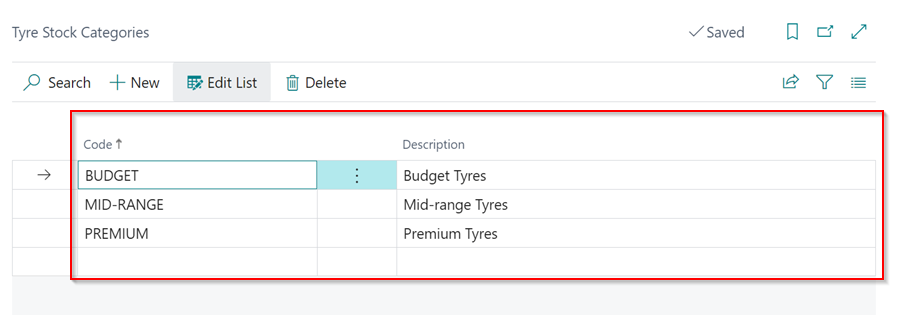
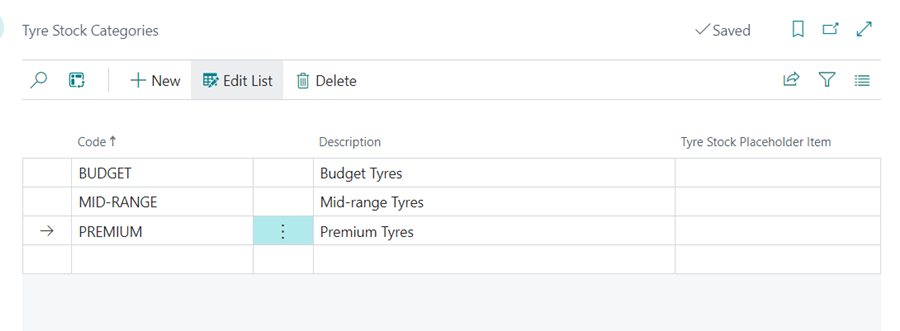
tyre stocks

diff --git a/docs/garagehive-tyre-stock-groups.md b/docs/garagehive-tyre-stock-groups.md
@@ -4,13 +4,14 @@ title: Tyre Stock Groups in Garage Hive
 ---
 
 # Tyre Stock Groups
-**Tyre Stock Groups** is a feature in Garage Hive where you can conveniently create and manage various tyre groups available in the market, allowing you to effectively organize your tyre inventory based on these groups.
+**Tyre Stock Groups** is a feature in Garage Hive where you can easily create and manage various tyre groups available in the market, allowing you to effectively organise your tyre inventory based on these groups.
 
 
 ## In this article
 1. [Creating Tyre Stock Groups](#creating-tyre-stock-groups)
 2. [Creating Tyre Stock Categories](#creating-tyre-stock-categories)
 3. [Add Location Specific Setup to Tyre Stock Groups](#add-location-specific-setup-to-tyre-stock-groups)
+4. [Enable Tyre Stock Group Ordering in Requisition Worksheet](#enable-tyre-stock-group-ordering-in-requisition-worksheet)
 
 ### Creating Tyre Stock Groups
 To create **Tyre Stock Groups**:
@@ -37,7 +38,7 @@ To create **Tyre Stock Groups**:
 [Go back to top](#top)
 
 ### Creating Tyre Stock Categories
-**Tyre Stock Categories** help in categorising the **Tyre Stock Groups** based on the criteria you use. Here is how to create the categories:
+**Tyre Stock Categories** help in categorising the **Tyre Stock Groups** based on the criteria you choose. Here is how to create the categories:
 1. In the top right corner, choose the ![](media/search_icon.png) icon, enter **Tyre Stock Categories**, and select the related link.
 
    ![](media/garagehive-tyre-stock-categories1.png)
@@ -46,7 +47,7 @@ To create **Tyre Stock Groups**:
 
    ![](media/garagehive-tyre-stock-categories2.png)
 
-3. Open the **Tyre Stock Groups** page, go to the **Stock Category** field, and select the tyres to which you want to add a category. Add the categories there.
+3. Open the **Tyre Stock Groups** page, go to the **Stock Category** field, select the tyres to which you want to add a category and add the categories there.
 
    ![](media/garagehive-tyre-stock-categories3.png)
 
@@ -71,5 +72,38 @@ Location Specific setup helps in the creation of the Tyre Stock Group for a spec
 6. Select **New** from the menu bar, and choose the location you want to have in the group.
 
    ![](media/garagehive-tyre-group-location-specific4.png)
+
+[Go back to top](#top)
+
+### Enable Tyre Stock Group Ordering in Requisition Worksheet
+If you want the requisition worksheet to work with Tyre Stock Groups instead of individual tyre items when selecting items to order, you need to create tyre placeholder items and categorise all the tyre stock groups. Here’s how to do it:
+1. In the top right corner, choose the ![](media/search_icon.png) icon, enter **Tyre Stock Groups**, and select the related link.
+
+   ![](media/garagehive-tyre-stock-placeholder1.png)
+
+2. In the **Tyre Stock Placeholder Item** column, create new placeholder items for each category you have.
+
+   ![](media/garagehive-tyre-stock-placeholder2.png)
+
+3. Make sure the item card is set up as a **Tyre** item template and marked as a **Placeholder Item**.
+
+   ![](media/garagehive-tyre-stock-placeholder3.png)
+
+4. After adding a **Tyre Stock Placeholder Item** for each category, go to the tyre item card and add the **Reordering Policy** as **Maximum Qty.** and the **Reorder Point** as point when to reorder.
+
+   ![](media/garagehive-tyre-stock-placeholder4.png)
+
+5.  In the **Tyre Fields** FastTab of the item card, ensure that the **Stock Category** is included.
+
+   ![](media/garagehive-tyre-stock-placeholder5.png)
+
+6. Next, click on the **Items to Order** tile.
+
+   ![](media/garagehive-tyre-stock-placeholder6.png)
+
+7. Click on **Calculate Plan** in the **Requisition Worksheet Express**, and it will give you the number of tyre category to order.
+
+   ![](media/garagehive-tyre-stock-placeholder7.png)
+
 
 [Go back to top](#top)

diff --git a/docs/garagehive-whats-new.md b/docs/garagehive-whats-new.md
@@ -12,7 +12,7 @@ The following is a list of all new Garage Hive features and updates. For more de
 
    ![](media/prevent-posting-if-unit-price-is-less-than-or-equal-than-cost.png)
 
-* 
+* System Improvements - [check here](garagehive-system-improvements.html){:target="_blank"}.
 
 ### 23rd September 2024
 * Added the option to select the default Primary Vehicle Data Lookup Region in Online Booking.
